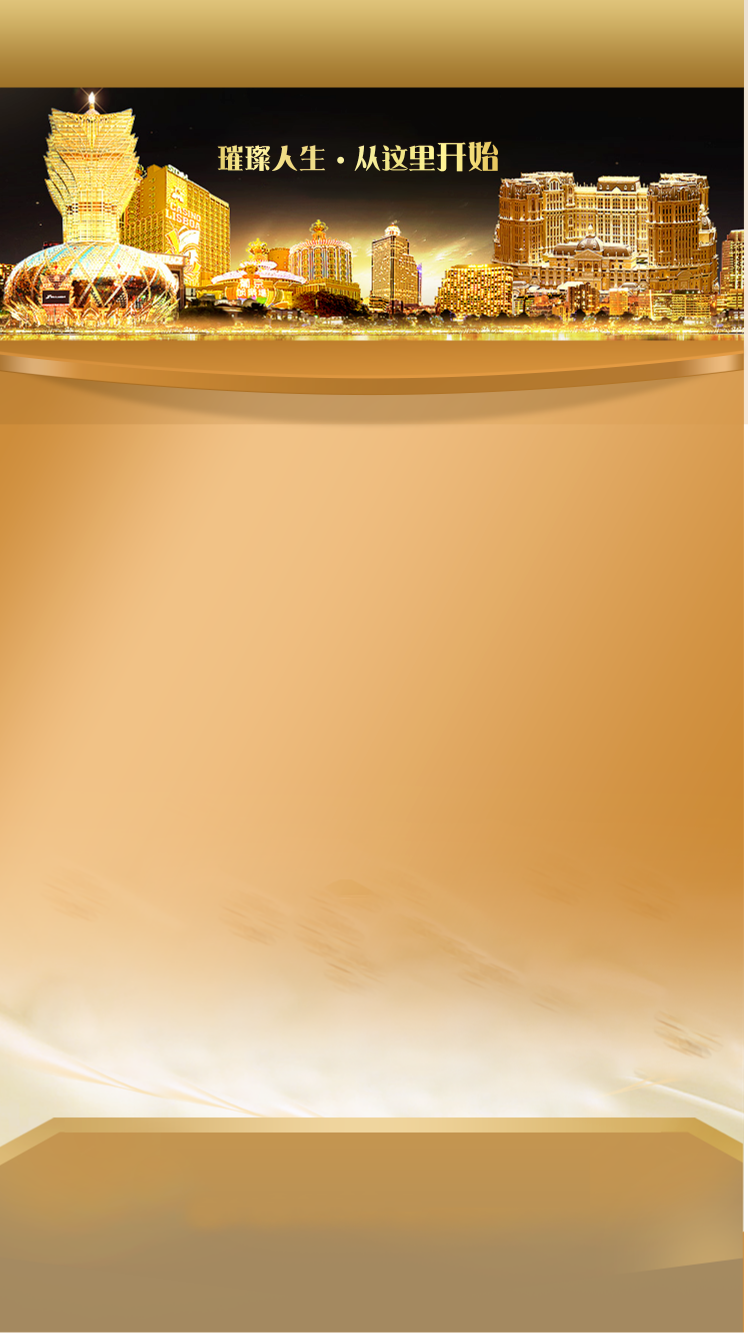
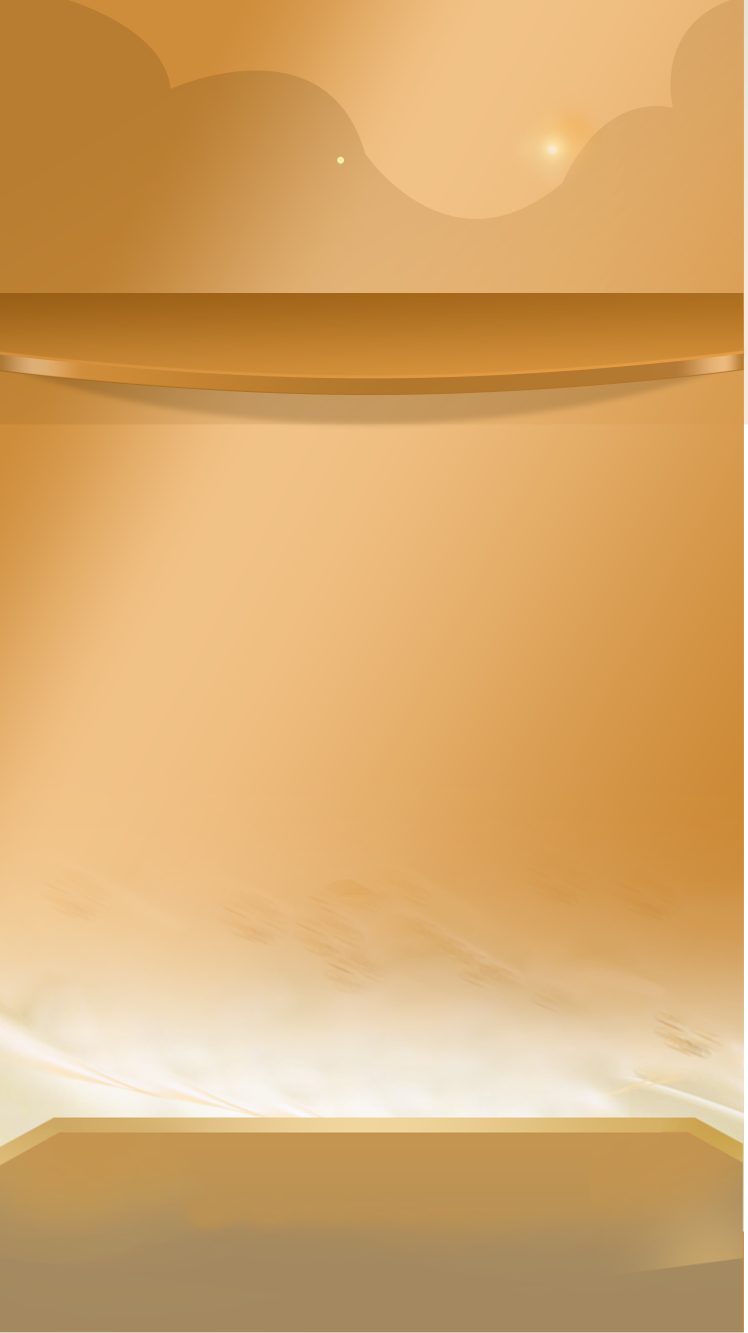
xpj

Changed region(s): [[0.0, 0.0, 1.0, 0.2768]]

diff --git a/danye/xpj/css/style.css b/danye/xpj/css/style.css
@@ -39,11 +39,12 @@ body{ font-family:Arial,Helvetica,sans-serif;height: 100%;}
 }
 .header {
   width:100%;
-  height: 1.24rem;
+  height: 1.19rem;
   padding:0 0.17rem 0 0.24rem;
   display: flex;
   justify-content: space-between;
   align-items: center;
+  background: url('../images/header.png') no-repeat center/cover;
 }
 .header .logo{
   width:4.09rem;
@@ -54,13 +55,14 @@ body{ font-family:Arial,Helvetica,sans-serif;height: 100%;}
   height: 0.76rem;
 }
 .content {
-  margin-top: -1.4rem;
+  margin-top: -0.4rem;
   display: flex;
   justify-content: center;
   text-align: center;
 }
 .banner {
-  height: 4.09rem;
+  height: 3.37rem;
+  width: 100%;
 }
 
 .bonus {

diff --git a/danye/xpj/index.html b/danye/xpj/index.html
@@ -25,7 +25,7 @@
             <img src="./images/url.png" alt="" class="url"/>
         </div>
 
-        <div class="banner"></div>
+        <div class="banner"><img src="./images/banner.png" alt=""></div>
 
         <div class="content">
             <div class="bonus">
